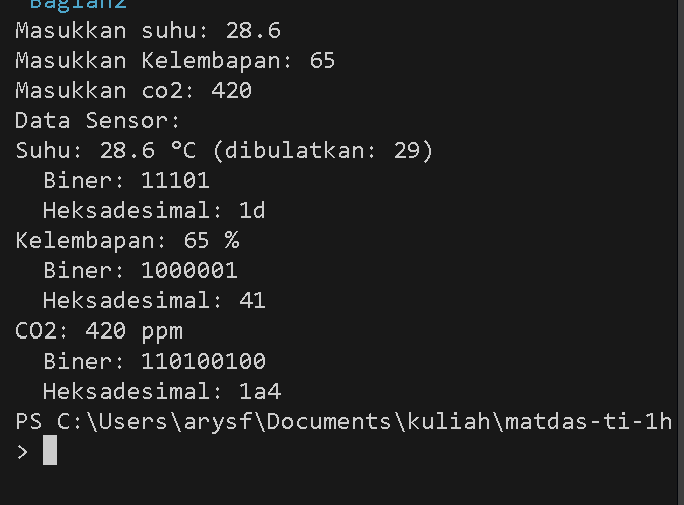
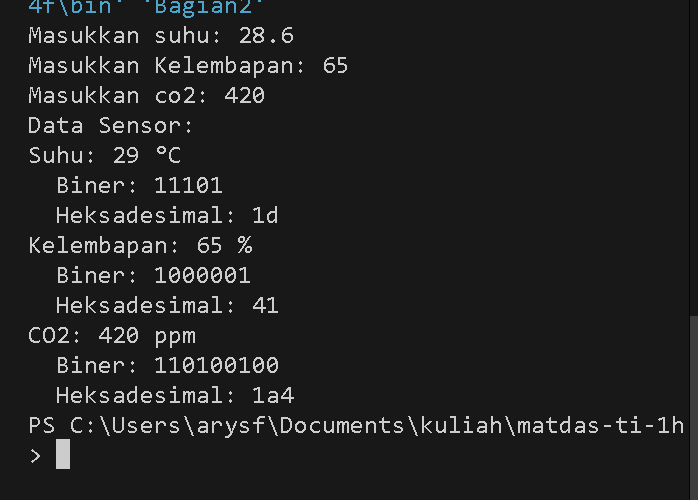
UTS

Changed region(s): [[0.0, 0.0, 1.0, 1.0], [0.307, 0.27, 0.5526, 0.33], [0.5833, 0.27, 0.614, 0.33]]

diff --git a/09_Fata_Haidar_Aly/UTS/Bagian2.java b/09_Fata_Haidar_Aly/UTS/Bagian2.java
@@ -30,7 +30,7 @@ public class Bagian2 {
 
       
         System.out.println("Data Sensor:");
-        System.out.printf("Suhu: %.1f °C (dibulatkan: %d)\n", suhu, suhuBulat);
+        System.out.printf("Suhu: %d °C \n", suhuBulat);
         System.out.println("  Biner: " + suhuBiner);
         System.out.println("  Heksadesimal: " + suhuHex);
         
